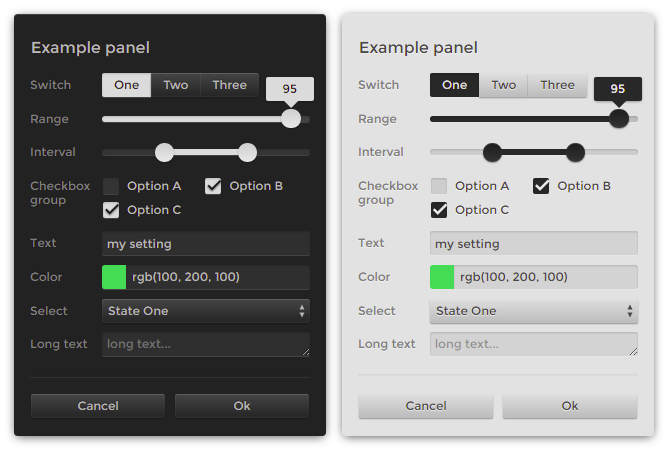
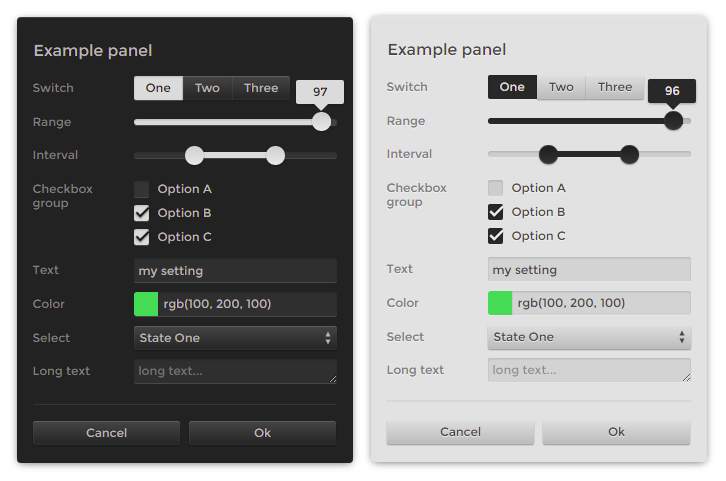
Upd visuals

diff --git a/index.js b/index.js
@@ -10551,7 +10551,7 @@ meta.setAttribute('content', 'width=device-width, initial-scale=1, shrink-to-fit
 document.head.appendChild(meta)
 
 
-insertCSS("\n\tbody {\n\t\tmargin: 0;\n\t\tposition: relative;\n\t\tmin-height: 100vh;\n\t\t// background: url('./images/land.jpg');\n\t\tbackground-position: center top;\n\t\tbackground-size: cover;\n\t\tbackground-attachment: fixed;\n\t}\n\t.settings-panel-preview {\n\t\tmargin: 2em auto;\n\t}\n\t.sidebar {\n\t\tdisplay: none;\n\t\tposition: fixed;\n\t\ttop: 0;\n\t\tright: 0;\n\t\tbottom: 0;\n\t\tfont-size: 12px;\n\t\twidth: 240px;\n\t\tbox-shadow: -1px 0 3px rgba(0,0,0,.05);\n\t}\n\t@media (min-width: 640px) {\n\t\t.frame {\n\t\t\tmin-height: 100vh;\n\t\t\tposition: relative;\n\t\t\twidth: calc(100% - 240px);\n\t\t}\n\t\t.sidebar {\n\t\t\tdisplay: block;\n\t\t}\n\t}\n");
+insertCSS("\n\tbody {\n\t\tmargin: 0;\n\t\tposition: relative;\n\t\tmin-height: 100vh;\n\t\tbackground: url('./images/land.jpg');\n\t\tbackground-position: center top;\n\t\tbackground-size: cover;\n\t\tbackground-attachment: fixed;\n\t}\n\t.settings-panel-preview {\n\t\tmargin: 2em auto;\n\t}\n\t.sidebar {\n\t\tdisplay: none;\n\t\tposition: fixed;\n\t\ttop: 0;\n\t\tright: 0;\n\t\tbottom: 0;\n\t\tfont-size: 12px;\n\t\twidth: 240px;\n\t\tbox-shadow: -1px 0 3px rgba(0,0,0,.05);\n\t}\n\t@media (min-width: 640px) {\n\t\t.frame {\n\t\t\tmin-height: 100vh;\n\t\t\tposition: relative;\n\t\t\twidth: calc(100% - 240px);\n\t\t}\n\t\t.sidebar {\n\t\t\tdisplay: block;\n\t\t}\n\t}\n");
 
 
 var themes = {
@@ -11221,7 +11221,7 @@ function typer (opts) {
 		if ( d === void 0 ) d = .05;
 		if ( t === void 0 ) t = tone;
 
-		return ("\n\t\tbackground: " + (t(v)) + ";\n\t\t/*background-image: linear-gradient(to bottom, " + (darken(v, d, t)) + ", " + (lighten(v, d, t)) + ");*/\n\t\tbox-shadow: inset 0 1px 2px " + (alpha(shadow, .15)) + ", 0 1px " + (alpha(light, .17)) + ";\n\t\tcolor: " + (t(1 - active)) + ";\n\t\ttext-shadow: none;\n\t");
+		return ("\n\t\tbackground: " + (t(v)) + ";\n\t\t/*background-image: linear-gradient(to bottom, " + (darken(v, d, t)) + ", " + (lighten(v, d, t)) + ");*/\n\t\tbox-shadow: inset 0 1px 2px " + (alpha(shadow, .15)) + ", 0 1px " + (alpha(light, .2)) + ";\n\t\tcolor: " + (t(1 - active)) + ";\n\t\ttext-shadow: none;\n\t");
 	};
 	var text = function (v, bg) { return color(tone(v)).getLuminance() > color(tone(bg)).getLuminance() ? ("\n\t\tcolor: " + (tone(v)) + ";\n\t\tbackground: " + (tone(bg)) + ";\n\t\ttext-shadow: 0 -1px " + (color.mix(tone(bg), shadow, 50)) + ";\n\t") : ("\n\t\tcolor: " + (tone(v)) + ";\n\t\tbackground: " + (tone(bg)) + ";\n\t\ttext-shadow: 0 1px " + (color.mix(tone(bg), light, 50)) + ";\n\t"); };
 
@@ -11232,6 +11232,6 @@ function typer (opts) {
 		labelWidth: labelWidth,
 		palette: [tone(active), tone(bg)],
 		padding: padding
-	}) + "\n\t\t:host {\n\t\t\t" + (text(.25, bg)) + ";\n\t\t\tbox-shadow: inset 0 1px " + (alpha(light, .15)) + ", 0 2px 14px -2px " + (alpha(shadow, .75)) + ";\n\t\t\tborder-radius: " + (radius*2) + "px;\n\t\t}\n\n\t\t.settings-panel-title {\n\t\t\tfont-weight: 400;\n\t\t\t" + (text(.25, bg)) + ";\n\t\t}\n\n\t\t.settings-panel-label {\n\t\t\t" + (text(.5, bg)) + ";\n\t\t}\n\n\t\t.settings-panel-field:hover .settings-panel-label {\n\t\t\tcolor: " + (tone(active)) + ";\n\t\t}\n\n\n\n\t/** Values */\n\t.settings-panel-value {\n\t}\n\t.settings-panel-value:first-child {\n\t}\n\t.settings-panel-value:hover,\n\t.settings-panel-value:focus {\n\t}\n\n\n\n\t/** Sliders */\n\t.settings-panel-range {\n\t\t-webkit-appearance: none;\n\t\t-moz-appearance: none;\n\t\tappearance: none;\n\t\tbackground: none;\n\t\tborder: 0;\n\t}\n\t.settings-panel-field--range:hover .settings-panel-range,\n\t.settings-panel-range:focus {\n\t\toutline: none;\n\t}\n\t.settings-panel-range::-webkit-slider-runnable-track {\n\t\theight: .5em;\n\t\tborder-radius: .5em;\n\t\t" + (push(active, .05)) + "\n\t}\n\t.settings-panel-range::-moz-range-track {\n\t\theight: .5em;\n\t\tborder-radius: .5em;\n\t\t" + (push(active, .05)) + "\n\t}\n\t.settings-panel-range::-ms-track {\n\t\t" + (push(active, .05)) + "\n\t\toutline: none;\n\t\tcolor: transparent;\n\t\tborder: none;\n\t\theight: .5em;\n\t\tborder-radius: .5em;\n\t}\n\t.settings-panel-range::-ms-fill-lower {\n\t\tborder-radius: .5em;\n\t\t" + (push(active, .05)) + "\n\t}\n\t.settings-panel-range::-ms-fill-upper {\n\t\tborder-radius: .5em;\n\t\t" + (push(bg*.9, .05)) + "\n\t}\n\n\t@supports (--css: variables) {\n\t\t.settings-panel-range {\n\t\t\twidth: 100%;\n\t\t\t--active: " + (tone(active)) + ";\n\t\t\t--bg: " + (tone(bg*.9)) + ";\n\t\t\t--track-background: linear-gradient(to right, var(--active) 0, var(--active) var(--value), var(--bg) 0) no-repeat;\n\t\t}\n\t\t.settings-panel-range::-webkit-slider-runnable-track {\n\t\t\tbackground: var(--track-background);\n\t\t}\n\t\t.settings-panel-range::-moz-range-track {\n\t\t\tbackground: var(--track-background);\n\t\t}\n\t\t.settings-panel-field--range .settings-panel-input {\n\t\t\tmargin-right: " + h + "em;\n\t\t}\n\t\t.settings-panel-field--range:hover .settings-panel-range,\n\t\t.settings-panel-range:focus {\n\t\t\t--bg: " + (tone(bg*.9 -.07)) + ";\n\t\t}\n\t\t.settings-panel-range-value {\n\t\t\tdisplay: none;\n\t\t\tposition: absolute;\n\t\t\ttop: -" + (h*1.25) + "em;\n\t\t\ttext-align: center;\n\t\t\tpadding: 0;\n\t\t\tcolor: " + (tone(bg)) + ";\n\t\t\tbackground: " + (tone(active)) + ";\n\t\t\tbox-shadow: 0 1px 5px -1px " + (alpha(shadow, .5)) + ";\n\t\t\tborder-radius: " + radius + "px;\n\t\t\tz-index: 3;\n\t\t\tmargin-left: " + (-h*.65) + "em;\n\t\t\twidth: " + (h*2) + "em;\n\t\t\ttext-shadow: none;\n\t\t\tleft: calc(var(--value) - var(--coef) * " + (h*.8) + "em);\n\t\t}\n\t\t.settings-panel-field--range .settings-panel-value-tip {\n\t\t\tposition: absolute;\n\t\t\theight: 0;\n\t\t\ttop: -" + (h*.25) + "em;\n\t\t\tleft: calc(var(--value) - var(--coef) * " + (h*.8) + "em);\n\t\t\tmargin-left: " + (h*.1) + "em;\n\t\t\tdisplay: none;\n\t\t\tz-index: 3;\n\t\t\tborder-top: " + (h*.3) + "em solid " + (tone(active)) + ";\n\t\t\tborder-left: " + (h*.3) + "em solid transparent;\n\t\t\tborder-right: " + (h*.3) + "em solid transparent;\n\t\t\tborder-bottom: none;\n\t\t}\n\t\t.settings-panel-input:before {\n\t\t\tborder-top: " + (h*.3) + "em solid " + (alpha(shadow, .25)) + ";\n\t\t}\n\t\t.settings-panel-field--range:hover .settings-panel-value-tip,\n\t\t.settings-panel-range:focus ~ .settings-panel-value-tip {\n\t\t\tdisplay: block;\n\t\t}\n\t\t.settings-panel-field--range:hover .settings-panel-value,\n\t\t.settings-panel-range:focus ~ .settings-panel-value {\n\t\t\tdisplay: block;\n\t\t}\n\t}\n\n\t.settings-panel-range::-webkit-slider-thumb {\n\t\t" + (pop(active, -.05)) + ";\n\t\theight: " + (h*.8) + "em;\n\t\twidth: " + (h*.8) + "em;\n\t\tborder-radius: " + (h*.8) + "em;\n\t\tmargin-top: -" + (h*.4) + "em;\n\t\tborder: 0;\n\t\tposition: relative;\n\t\ttop: .25em;\n\t\t-webkit-appearance: none;\n\t\tappearance: none;\n\t\tz-index: 3;\n\t}\n\t.settings-panel-range:focus::-webkit-slider-thumb,\n\t.settings-panel-range:hover::-webkit-slider-thumb,\n\t.settings-panel-field--range:hover .settings-panel-range::-webkit-slider-thumb {\n\t}\n\t.settings-panel-range::-webkit-slider-thumb:active {\n\t}\n\n\t.settings-panel-range::-moz-range-thumb {\n\t\t" + (pop(active, -.05)) + ";\n\t\theight: " + (h*.8) + "em;\n\t\twidth: " + (h*.8) + "em;\n\t\tborder-radius: " + (h*.8) + "em;\n\t\tmargin-top: -" + (h*.4) + "em;\n\t\tborder: 0;\n\t\tposition: relative;\n\t\ttop: .25em;\n\t\t-moz-appearance: none;\n\t\tappearance: none;\n\t\tz-index: 3;\n\t}\n\t.settings-panel-range:focus::-moz-range-thumb,\n\t.settings-panel-range::-moz-range-thumb:hover,\n\t.settings-panel-field--range:hover .settings-panel-range::-moz-range-thumb {\n\t}\n\t.settings-panel-range::-moz-range-thumb:active {\n\t}\n\n\t.settings-panel-range::-ms-thumb {\n\t\t" + (pop(active, -.05)) + ";\n\t\theight: " + (h*.8) + "em;\n\t\twidth: " + (h*.8) + "em;\n\t\tborder-radius: " + (h*.8) + "em;\n\t\tborder: 0;\n\t\tposition: relative;\n\t\ttop: .25em;\n\t\t-ms-appearance: none;\n\t\tappearance: none;\n\t\tz-index: 3;\n\t}\n\t.settings-panel-range:focus::-ms-thumb,\n\t.settings-panel-range:hover::-ms-thumb,\n\t.settings-panel-field--range:hover .settings-panel-range::-ms-thumb {\n\t}\n\t.settings-panel-range::-ms-thumb:active {\n\t}\n\n\n\t/** Interval */\n\t.settings-panel-interval {\n\t\tbackground: none;\n\t}\n\t.settings-panel-interval:after {\n\t\tcontent: '';\n\t\tposition: absolute;\n\t\twidth: 100%;\n\t\tleft: 0;\n\t\tbottom: 0;\n\t\ttop: 0;\n\t\theight: .5em;\n\t\tborder-radius: .5em;\n\t\tmargin-top: auto;\n\t\tmargin-bottom: auto;\n\t\t" + (push(bg*.9, .05)) + "\n\t\tbackground: " + (tone(bg*.9)) + ";\n\t}\n\t.settings-panel-field--interval:hover .settings-panel-interval:after,\n\t.settings-panel-interval-dragging .settings-panel-interval:after {\n\t\tbackground: " + (tone(bg*.9 -.07)) + ";\n\t}\n\t.settings-panel-interval-handle {\n\t\tposition: absolute;\n\t\tz-index: 1;\n\t\ttop: 0;\n\t\theight: .5em;\n\t\tbottom: 0;\n\t\tmargin-top: auto;\n\t\tmargin-bottom: auto;\n\t\tbackground: " + (tone(active)) + ";\n\t}\n\t.settings-panel-interval-handle:after,\n\t.settings-panel-interval-handle:before {\n\t\tcontent: '';\n\t\tposition: absolute;\n\t\tright: -" + (h*.4) + "em;\n\t\ttop: 0;\n\t\tbottom: 0;\n\t\tmargin: auto;\n\t\theight: " + (h*.8) + "em;\n\t\twidth: " + (h*.8) + "em;\n\t\tborder-radius: " + (h*.8) + "em;\n\t\t" + (pop(active, -.05)) + ";\n\t}\n\t.settings-panel-interval-handle:before {\n\t\tleft: -" + (h*.4) + "em;\n\t\tright: auto;\n\t}\n\n\t.settings-panel-field--interval:hover .settings-panel-interval-handle:after,\n\t.settings-panel-field--interval:hover .settings-panel-interval-handle:before,\n\t.settings-panel-interval-dragging .settings-panel-interval-handle:after,\n\t.settings-panel-interval-dragging .settings-panel-interval-handle:before {\n\t\t" + (pop(active, -.05)) + ";\n\t}\n\n\t@supports (--css: variables) {\n\t\t.settings-panel-interval {\n\t\t\twidth: 100%;\n\t\t}\n\n\t\t.settings-panel-interval-value {\n\t\t\tposition: absolute;\n\t\t\ttop: -" + (h*1.25) + "em;\n\t\t\ttext-align: center;\n\t\t\tpadding: 0;\n\t\t\tdisplay: none;\n\t\t\tcolor: " + (tone(bg)) + ";\n\t\t\tbackground: " + (tone(active)) + ";\n\t\t\tbox-shadow: 0 1px 5px -1px " + (alpha(shadow, .5)) + ";\n\t\t\tborder-radius: " + radius + "px;\n\t\t\tz-index: 3;\n\t\t\tmargin-left: " + (-h) + "em;\n\t\t\twidth: " + (h*2) + "em;\n\t\t\ttext-shadow: none;\n\t\t\tleft: var(--value);\n\t\t}\n\n\t\t.settings-panel-field--interval .settings-panel-value-tip {\n\t\t\tposition: absolute;\n\t\t\theight: 0;\n\t\t\tdisplay: none;\n\t\t\ttop: -" + (h*.25) + "em;\n\t\t\tleft: var(--low);\n\t\t\tmargin-left: " + (-h*.3) + "em;\n\t\t\tz-index: 3;\n\t\t\tborder-top: " + (h*.3) + "em solid " + (tone(active)) + ";\n\t\t\tborder-left: " + (h*.3) + "em solid transparent;\n\t\t\tborder-right: " + (h*.3) + "em solid transparent;\n\t\t\tborder-bottom: none;\n\t\t}\n\t\t.settings-panel-interval-value--right + .settings-panel-value-tip {\n\t\t\tleft: var(--high);\n\t\t}\n\n\t\t.settings-panel-input:before {\n\t\t\tborder-top: " + (h*.3) + "em solid " + (alpha(shadow, .25)) + ";\n\t\t}\n\t\t.settings-panel-field--interval:hover .settings-panel-interval-value,\n\t\t.settings-panel-interval-dragging .settings-panel-interval-value {\n\t\t\tdisplay: block;\n\t\t}\n\t\t@media (min-width: 640px) {\n\t\t\t.settings-panel-field--interval:hover .settings-panel-value-tip,\n\t\t\t.settings-panel-interval-dragging .settings-panel-value-tip {\n\t\t\t\tdisplay: block;\n\t\t\t}\n\t\t}\n\t}\n\n\n\t\t/** Switch style */\n\t\t.settings-panel-switch {\n\t\t}\n\t\t.settings-panel-switch-input {\n\t\t\tdisplay: none;\n\t\t}\n\t\t.settings-panel-switch-label {\n\t\t\tposition: relative;\n\t\t\tdisplay: inline-block;\n\t\t\tpadding: 0 " + (h/2) + "em;\n\t\t\tmargin: 0;\n\t\t\tz-index: 2;\n\t\t\ttext-align: center;\n\t\t\t" + (pop(bg * .9, .07)) + ";\n\t\t\tcolor: " + (tone(.25)) + ";\n\t\t}\n\t\t.settings-panel-switch-input:checked + .settings-panel-switch-label {\n\t\t\t" + (push(active, .05)) + ";\n\t\t}\n\n\t\t.settings-panel-switch-input:first-child + .settings-panel-switch-label {\n\t\t\tborder-top-left-radius: 2px;\n\t\t\tborder-bottom-left-radius: 2px;\n\t\t}\n\t\t.settings-panel-switch-label:last-child {\n\t\t\tborder-top-right-radius: 2px;\n\t\t\tborder-bottom-right-radius: 2px;\n\t\t}\n\n\t\t.settings-panel-switch-label:hover {\n\t\t\t" + (pop(bg * .9 + (inversed ? -.07 : .07), .07)) + ";\n\t\t}\n\t\t.settings-panel-switch-label:active {\n\t\t\t" + (pop(bg * .9 + (inversed ? .07 : -.07), .07)) + ";\n\t\t}\n\n\n\t/** Select */\n\t.settings-panel-select {\n\t\tborder-radius: " + radius + "px;\n\t\tpadding-left: " + (h/4) + "em;\n\t\toutline: none;\n\t\tborder: none;\n\t\t-webkit-appearance: none;\n\t\t-moz-appearance: none;\n\t\t-o-appearance:none;\n\t\tappearance:none;\n\t\t" + (pop(bg * .9, .07)) + ";\n\t\tcolor: " + (tone(.25)) + ";\n\t}\n\t.settings-panel-select:hover,\n\t.settings-panel-select:active,\n\t.settings-panel-select:focus {\n\t\t" + (pop(bg * .9 + (inversed ? -.07 : .07), .07)) + ";\n\t}\n\t.settings-panel-select::-ms-expand {\n\t\tdisplay: none;\n\t}\n\t.settings-panel-select-triangle {\n\t\tcolor: inherit;\n\t\tdisplay: block;\n\t\ttransform: scale(.8);\n\t}\n\n\n\t/** Button */\n\t.settings-panel-button {\n\t\ttext-align: center;\n\t\tborder: none;\n\t\tborder-radius: " + radius + "px;\n\t\t" + (pop(bg * .9, .07)) + ";\n\t\tcolor: " + (tone(.25)) + ";\n\t}\n\t.settings-panel-button:focus {\n\t\toutline: none;\n\t}\n\t.settings-panel-button:hover {\n\t\t" + (pop(bg * .9 + (inversed ? -.07 : .07), .07)) + ";\n\t\tcolor: " + (tone(active)) + ";\n\t}\n\t.settings-panel-button:active {\n\t\t" + (push(active, .05)) + ";\n\t}\n\n\n\t/** Text */\n\t.settings-panel-text,\n\t.settings-panel-textarea {\n\t\t-webkit-appearance: none;\n\t\t-moz-appearance: none;\n\t\t-o-appearance:none;\n\t\tborder: none;\n\t\theight: " + h + "em;\n\t\tpadding: 0;\n\t\twidth: 100%;\n\t\tborder-radius: " + radius + "px;\n\t\tpadding-left: .4em;\n\t\t" + (push(bg*.93)) + ";\n\t\tcolor: " + (tone(.25)) + ";\n\t\ttext-shadow: none;\n\t}\n\t.settings-panel-textarea {\n\t\tpadding-top: .35em;\n\t}\n\n\t.settings-panel-text:hover,\n\t.settings-panel-textarea:hover,\n\t.settings-panel-text:focus,\n\t.settings-panel-textarea:focus {\n\t\t" + (push(bg * .93 - .04)) + ";\n\t\tcolor: " + (tone(active)) + ";\n\t\toutline: none;\n\t}\n\n\t/** Color */\n\t.settings-panel-color {\n\t\tposition: relative;\n\t\twidth: " + h + "em;\n\t\tborder-top-left-radius: 3px;\n\t\tborder-bottom-left-radius: 3px;\n\t\tdisplay: inline-block;\n\t\tvertical-align: baseline;\n\t\tbox-shadow: 0 1px " + (alpha(light, .2)) + ";\n\t}\n\t.settings-panel-color-value {\n\t\t-webkit-appearance: none;\n\t\t-moz-appearance: none;\n\t\t-o-appearance:none;\n\t\tborder: none;\n\t\tpadding-left: " + (h/4) + "em;\n\t\twidth: calc(100% - " + h + "em);\n\t\tfont-family: inherit;\n\t\tborder-top-left-radius: 0;\n\t\tborder-bottom-left-radius: 0;\n\t\tborder-top-right-radius: 3px;\n\t\tborder-bottom-right-radius: 3px;\n\t\t" + (push(bg*.93)) + ";\n\t\tcolor: " + (tone(.25)) + ";\n\t\ttext-shadow: none;\n\t}\n\t.settings-panel-color-value:hover,\n\t.settings-panel-color-value:focus {\n\t\toutline: none;\n\t\t" + (push(bg * .93 - .04)) + ";\n\t\tcolor: " + (tone(active)) + ";\n\t}\n\n\n\t/** Checkbox */\n\t.settings-panel-checkbox {\n\t\tdisplay: none;\n\t}\n\t.settings-panel-checkbox-label {\n\t\tdisplay: inline-block;\n\t\t" + (text(.25, bg)) + ";\n\t\tposition: relative;\n\t\tmargin-right: " + h + "em;\n\t}\n\t.settings-panel-checkbox-label:before {\n\t\tfont-family: \"Material Icons\";\n\t\tcontent: '';\n\t\tfont-weight: bolder;\n\t\tfont-size: " + (h*.75) + "em;\n\t\tdisplay: block;\n\t\tfloat: left;\n\t\twidth: 2em;\n\t\tmargin-right: -2em;\n\t\tmargin-top: -" + (h*.1) + "em;\n\t\topacity: 0;\n\t\tz-index: 1;\n\t\tposition: relative;\n\t\tcolor: " + (tone(1)) + ";\n\t\ttext-shadow: 0 1px 2px " + (alpha(shadow, .5)) + ";\n\t}\n\t.settings-panel-checkbox-label:after {\n\t\tcontent: '';\n\t\tdisplay: block;\n\t\tfloat: left;\n\t\tmargin-top: -" + (h*.05) + "em;\n\t\twidth: " + (h*.666) + "em;\n\t\theight: " + (h*.666) + "em;\n\t\tborder-radius: " + radius + "px;\n\t\tposition: relative;\n\t\tmargin-right: " + (h/3) + "em;\n\t\tline-height: " + (h/2) + "em;\n\t\ttext-align: center;\n\t\tz-index: 0;\n\t\t" + (push(bg * .9)) + ";\n\t}\n\t.settings-panel-checkbox-label:hover {\n\t\tcolor: " + (tone(active)) + ";\n\t}\n\t.settings-panel-checkbox-label:hover:after {\n\t\t" + (push(bg * .9 -.07, .07)) + ";\n\t}\n\t.settings-panel-checkbox:checked + .settings-panel-checkbox-label {\n\t}\n\t.settings-panel-checkbox:checked + .settings-panel-checkbox-label:before {\n\t\topacity: 1;\n\t}\n\t.settings-panel-checkbox:checked + .settings-panel-checkbox-label:after {\n\t\t" + (push(active, .1)) + ";\n\t}\n\n\n\t/** Decorations */\n\t::-webkit-input-placeholder {\n\t\tcolor: " + (alpha(tone(.25), .5)) + ";\n\t}\n\t::-moz-placeholder {\n\t\tcolor: " + (alpha(tone(.25), .5)) + ";\n\t}\n\t:-ms-input-placeholder {\n\t\tcolor: " + (alpha(tone(.25), .5)) + ";\n\t}\n\t:-moz-placeholder {\n\t\tcolor: " + (alpha(tone(.25), .5)) + ";\n\t}\n\t::-moz-selection {\n\t\tbackground: " + (tone(active)) + ";\n\t\tcolor: " + (tone(bg)) + ";\n\t}\n\t::selection {\n\t\tbackground: " + (tone(active)) + ";\n\t\tcolor: " + (tone(bg)) + ";\n\t}\n\t:host hr {\n\t\tborder: none;\n\t\theight: 3px;\n\t\tborder-radius: " + radius + "px;\n\t\tmargin: " + (h/3) + "em 0;\n\t\t" + (push(bg, .05)) + ";\n\t}\n\t";
+	}) + "\n\t\t:host {\n\t\t\t" + (text(.25, bg)) + ";\n\t\t\tbox-shadow: inset 0 1px " + (alpha(light, .15)) + ", 0 1.5px 11px -2px " + (alpha(shadow, .666)) + ";\n\t\t\tborder-radius: " + (radius*2) + "px;\n\t\t}\n\n\t\t.settings-panel-title {\n\t\t\tfont-weight: 400;\n\t\t\t" + (text(.25, bg)) + ";\n\t\t}\n\n\t\t.settings-panel-label {\n\t\t\t" + (text(.5, bg)) + ";\n\t\t}\n\n\t\t.settings-panel-field:hover .settings-panel-label {\n\t\t\tcolor: " + (tone(active)) + ";\n\t\t}\n\n\n\n\t/** Values */\n\t.settings-panel-value {\n\t}\n\t.settings-panel-value:first-child {\n\t}\n\t.settings-panel-value:hover,\n\t.settings-panel-value:focus {\n\t}\n\n\n\n\t/** Sliders */\n\t.settings-panel-range {\n\t\t-webkit-appearance: none;\n\t\t-moz-appearance: none;\n\t\tappearance: none;\n\t\tbackground: none;\n\t\tborder: 0;\n\t}\n\t.settings-panel-field--range:hover .settings-panel-range,\n\t.settings-panel-range:focus {\n\t\toutline: none;\n\t}\n\t.settings-panel-range::-webkit-slider-runnable-track {\n\t\theight: .5em;\n\t\tborder-radius: .5em;\n\t\t" + (push(active, .05)) + "\n\t}\n\t.settings-panel-range::-moz-range-track {\n\t\theight: .5em;\n\t\tborder-radius: .5em;\n\t\t" + (push(active, .05)) + "\n\t}\n\t.settings-panel-range::-ms-track {\n\t\t" + (push(active, .05)) + "\n\t\toutline: none;\n\t\tcolor: transparent;\n\t\tborder: none;\n\t\theight: .5em;\n\t\tborder-radius: .5em;\n\t}\n\t.settings-panel-range::-ms-fill-lower {\n\t\tborder-radius: .5em;\n\t\t" + (push(active, .05)) + "\n\t}\n\t.settings-panel-range::-ms-fill-upper {\n\t\tborder-radius: .5em;\n\t\t" + (push(bg*.9, .05)) + "\n\t}\n\n\t@supports (--css: variables) {\n\t\t.settings-panel-range {\n\t\t\twidth: 100%;\n\t\t\t--active: " + (tone(active)) + ";\n\t\t\t--bg: " + (tone(bg*.9)) + ";\n\t\t\t--track-background: linear-gradient(to right, var(--active) 0, var(--active) var(--value), var(--bg) 0) no-repeat;\n\t\t}\n\t\t.settings-panel-range::-webkit-slider-runnable-track {\n\t\t\tbackground: var(--track-background);\n\t\t}\n\t\t.settings-panel-range::-moz-range-track {\n\t\t\tbackground: var(--track-background);\n\t\t}\n\t\t.settings-panel-field--range .settings-panel-input {\n\t\t\tmargin-right: " + h + "em;\n\t\t}\n\t\t.settings-panel-field--range:hover .settings-panel-range,\n\t\t.settings-panel-range:focus {\n\t\t\t--bg: " + (tone(bg*.9 -.07)) + ";\n\t\t}\n\t\t.settings-panel-range-value {\n\t\t\tdisplay: none;\n\t\t\tposition: absolute;\n\t\t\ttop: -" + (h*1.25) + "em;\n\t\t\ttext-align: center;\n\t\t\tpadding: 0;\n\t\t\tcolor: " + (tone(bg)) + ";\n\t\t\tbackground: " + (tone(active)) + ";\n\t\t\tbox-shadow: 0 1px 5px -1px " + (alpha(shadow, .5)) + ";\n\t\t\tborder-radius: " + radius + "px;\n\t\t\tz-index: 3;\n\t\t\tmargin-left: " + (-h*.65) + "em;\n\t\t\twidth: " + (h*2) + "em;\n\t\t\ttext-shadow: none;\n\t\t\tleft: calc(var(--value) - var(--coef) * " + (h*.8) + "em);\n\t\t}\n\t\t.settings-panel-field--range .settings-panel-value-tip {\n\t\t\tposition: absolute;\n\t\t\theight: 0;\n\t\t\ttop: -" + (h*.25) + "em;\n\t\t\tleft: calc(var(--value) - var(--coef) * " + (h*.8) + "em);\n\t\t\tmargin-left: " + (h*.1) + "em;\n\t\t\tdisplay: none;\n\t\t\tz-index: 3;\n\t\t\tborder-top: " + (h*.3) + "em solid " + (tone(active)) + ";\n\t\t\tborder-left: " + (h*.3) + "em solid transparent;\n\t\t\tborder-right: " + (h*.3) + "em solid transparent;\n\t\t\tborder-bottom: none;\n\t\t}\n\t\t.settings-panel-input:before {\n\t\t\tborder-top: " + (h*.3) + "em solid " + (alpha(shadow, .25)) + ";\n\t\t}\n\t\t.settings-panel-field--range:hover .settings-panel-value-tip,\n\t\t.settings-panel-range:focus ~ .settings-panel-value-tip {\n\t\t\tdisplay: block;\n\t\t}\n\t\t.settings-panel-field--range:hover .settings-panel-value,\n\t\t.settings-panel-range:focus ~ .settings-panel-value {\n\t\t\tdisplay: block;\n\t\t}\n\t}\n\n\t.settings-panel-range::-webkit-slider-thumb {\n\t\t" + (pop(active, -.05)) + ";\n\t\theight: " + (h*.8) + "em;\n\t\twidth: " + (h*.8) + "em;\n\t\tborder-radius: " + (h*.8) + "em;\n\t\tmargin-top: -" + (h*.4) + "em;\n\t\tborder: 0;\n\t\tposition: relative;\n\t\ttop: .25em;\n\t\t-webkit-appearance: none;\n\t\tappearance: none;\n\t\tz-index: 3;\n\t}\n\t.settings-panel-range:focus::-webkit-slider-thumb,\n\t.settings-panel-range:hover::-webkit-slider-thumb,\n\t.settings-panel-field--range:hover .settings-panel-range::-webkit-slider-thumb {\n\t}\n\t.settings-panel-range::-webkit-slider-thumb:active {\n\t}\n\n\t.settings-panel-range::-moz-range-thumb {\n\t\t" + (pop(active, -.05)) + ";\n\t\theight: " + (h*.8) + "em;\n\t\twidth: " + (h*.8) + "em;\n\t\tborder-radius: " + (h*.8) + "em;\n\t\tmargin-top: -" + (h*.4) + "em;\n\t\tborder: 0;\n\t\tposition: relative;\n\t\ttop: .25em;\n\t\t-moz-appearance: none;\n\t\tappearance: none;\n\t\tz-index: 3;\n\t}\n\t.settings-panel-range:focus::-moz-range-thumb,\n\t.settings-panel-range::-moz-range-thumb:hover,\n\t.settings-panel-field--range:hover .settings-panel-range::-moz-range-thumb {\n\t}\n\t.settings-panel-range::-moz-range-thumb:active {\n\t}\n\n\t.settings-panel-range::-ms-thumb {\n\t\t" + (pop(active, -.05)) + ";\n\t\theight: " + (h*.8) + "em;\n\t\twidth: " + (h*.8) + "em;\n\t\tborder-radius: " + (h*.8) + "em;\n\t\tborder: 0;\n\t\tposition: relative;\n\t\ttop: .25em;\n\t\t-ms-appearance: none;\n\t\tappearance: none;\n\t\tz-index: 3;\n\t}\n\t.settings-panel-range:focus::-ms-thumb,\n\t.settings-panel-range:hover::-ms-thumb,\n\t.settings-panel-field--range:hover .settings-panel-range::-ms-thumb {\n\t}\n\t.settings-panel-range::-ms-thumb:active {\n\t}\n\n\n\t/** Interval */\n\t.settings-panel-interval {\n\t\tbackground: none;\n\t}\n\t.settings-panel-interval:after {\n\t\tcontent: '';\n\t\tposition: absolute;\n\t\twidth: 100%;\n\t\tleft: 0;\n\t\tbottom: 0;\n\t\ttop: 0;\n\t\theight: .5em;\n\t\tborder-radius: .5em;\n\t\tmargin-top: auto;\n\t\tmargin-bottom: auto;\n\t\t" + (push(bg*.9, .05)) + "\n\t\tbackground: " + (tone(bg*.9)) + ";\n\t}\n\t.settings-panel-field--interval:hover .settings-panel-interval:after,\n\t.settings-panel-interval-dragging .settings-panel-interval:after {\n\t\tbackground: " + (tone(bg*.9 -.07)) + ";\n\t}\n\t.settings-panel-interval-handle {\n\t\tposition: absolute;\n\t\tz-index: 1;\n\t\ttop: 0;\n\t\theight: .5em;\n\t\tbottom: 0;\n\t\tmargin-top: auto;\n\t\tmargin-bottom: auto;\n\t\tbackground: " + (tone(active)) + ";\n\t}\n\t.settings-panel-interval-handle:after,\n\t.settings-panel-interval-handle:before {\n\t\tcontent: '';\n\t\tposition: absolute;\n\t\tright: -" + (h*.4) + "em;\n\t\ttop: 0;\n\t\tbottom: 0;\n\t\tmargin: auto;\n\t\theight: " + (h*.8) + "em;\n\t\twidth: " + (h*.8) + "em;\n\t\tborder-radius: " + (h*.8) + "em;\n\t\t" + (pop(active, -.05)) + ";\n\t}\n\t.settings-panel-interval-handle:before {\n\t\tleft: -" + (h*.4) + "em;\n\t\tright: auto;\n\t}\n\n\t.settings-panel-field--interval:hover .settings-panel-interval-handle:after,\n\t.settings-panel-field--interval:hover .settings-panel-interval-handle:before,\n\t.settings-panel-interval-dragging .settings-panel-interval-handle:after,\n\t.settings-panel-interval-dragging .settings-panel-interval-handle:before {\n\t\t" + (pop(active, -.05)) + ";\n\t}\n\n\t@supports (--css: variables) {\n\t\t.settings-panel-interval {\n\t\t\twidth: 100%;\n\t\t}\n\n\t\t.settings-panel-interval-value {\n\t\t\tposition: absolute;\n\t\t\ttop: -" + (h*1.25) + "em;\n\t\t\ttext-align: center;\n\t\t\tpadding: 0;\n\t\t\tdisplay: none;\n\t\t\tcolor: " + (tone(bg)) + ";\n\t\t\tbackground: " + (tone(active)) + ";\n\t\t\tbox-shadow: 0 1px 5px -1px " + (alpha(shadow, .5)) + ";\n\t\t\tborder-radius: " + radius + "px;\n\t\t\tz-index: 3;\n\t\t\tmargin-left: " + (-h) + "em;\n\t\t\twidth: " + (h*2) + "em;\n\t\t\ttext-shadow: none;\n\t\t\tleft: var(--value);\n\t\t}\n\n\t\t.settings-panel-field--interval .settings-panel-value-tip {\n\t\t\tposition: absolute;\n\t\t\theight: 0;\n\t\t\tdisplay: none;\n\t\t\ttop: -" + (h*.25) + "em;\n\t\t\tleft: var(--low);\n\t\t\tmargin-left: " + (-h*.3) + "em;\n\t\t\tz-index: 3;\n\t\t\tborder-top: " + (h*.3) + "em solid " + (tone(active)) + ";\n\t\t\tborder-left: " + (h*.3) + "em solid transparent;\n\t\t\tborder-right: " + (h*.3) + "em solid transparent;\n\t\t\tborder-bottom: none;\n\t\t}\n\t\t.settings-panel-interval-value--right + .settings-panel-value-tip {\n\t\t\tleft: var(--high);\n\t\t}\n\n\t\t.settings-panel-input:before {\n\t\t\tborder-top: " + (h*.3) + "em solid " + (alpha(shadow, .25)) + ";\n\t\t}\n\t\t.settings-panel-field--interval:hover .settings-panel-interval-value,\n\t\t.settings-panel-interval-dragging .settings-panel-interval-value {\n\t\t\tdisplay: block;\n\t\t}\n\t\t@media (min-width: 640px) {\n\t\t\t.settings-panel-field--interval:hover .settings-panel-value-tip,\n\t\t\t.settings-panel-interval-dragging .settings-panel-value-tip {\n\t\t\t\tdisplay: block;\n\t\t\t}\n\t\t}\n\t}\n\n\n\t\t/** Switch style */\n\t\t.settings-panel-switch {\n\t\t}\n\t\t.settings-panel-switch-input {\n\t\t\tdisplay: none;\n\t\t}\n\t\t.settings-panel-switch-label {\n\t\t\tposition: relative;\n\t\t\tdisplay: inline-block;\n\t\t\tpadding: 0 " + (h/2) + "em;\n\t\t\tmargin: 0;\n\t\t\tz-index: 2;\n\t\t\ttext-align: center;\n\t\t\t" + (pop(bg * .9, .07)) + ";\n\t\t\tcolor: " + (tone(.25)) + ";\n\t\t}\n\t\t.settings-panel-switch-input:checked + .settings-panel-switch-label {\n\t\t\t" + (push(active, .05)) + ";\n\t\t}\n\n\t\t.settings-panel-switch-input:first-child + .settings-panel-switch-label {\n\t\t\tborder-top-left-radius: 2px;\n\t\t\tborder-bottom-left-radius: 2px;\n\t\t}\n\t\t.settings-panel-switch-label:last-child {\n\t\t\tborder-top-right-radius: 2px;\n\t\t\tborder-bottom-right-radius: 2px;\n\t\t}\n\n\t\t.settings-panel-switch-label:hover {\n\t\t\t" + (pop(bg * .9 + (inversed ? -.07 : .07), .07)) + ";\n\t\t}\n\t\t.settings-panel-switch-label:active {\n\t\t\t" + (pop(bg * .9 + (inversed ? .07 : -.07), .07)) + ";\n\t\t}\n\n\n\t/** Select */\n\t.settings-panel-select {\n\t\tborder-radius: " + radius + "px;\n\t\tpadding-left: " + (h/4) + "em;\n\t\toutline: none;\n\t\tborder: none;\n\t\t-webkit-appearance: none;\n\t\t-moz-appearance: none;\n\t\t-o-appearance:none;\n\t\tappearance:none;\n\t\t" + (pop(bg * .9, .07)) + ";\n\t\tcolor: " + (tone(.25)) + ";\n\t}\n\t.settings-panel-select:hover,\n\t.settings-panel-select:active,\n\t.settings-panel-select:focus {\n\t\t" + (pop(bg * .9 + (inversed ? -.07 : .07), .07)) + ";\n\t}\n\t.settings-panel-select::-ms-expand {\n\t\tdisplay: none;\n\t}\n\t.settings-panel-select-triangle {\n\t\tcolor: inherit;\n\t\tdisplay: block;\n\t\ttransform: scale(.8);\n\t}\n\n\n\t/** Button */\n\t.settings-panel-button {\n\t\ttext-align: center;\n\t\tborder: none;\n\t\tborder-radius: " + radius + "px;\n\t\t" + (pop(bg * .9, .07)) + ";\n\t\tcolor: " + (tone(.25)) + ";\n\t}\n\t.settings-panel-button:focus {\n\t\toutline: none;\n\t}\n\t.settings-panel-button:hover {\n\t\t" + (pop(bg * .9 + (inversed ? -.07 : .07), .07)) + ";\n\t\tcolor: " + (tone(active)) + ";\n\t}\n\t.settings-panel-button:active {\n\t\t" + (push(active, .05)) + ";\n\t}\n\n\n\t/** Text */\n\t.settings-panel-text,\n\t.settings-panel-textarea {\n\t\t-webkit-appearance: none;\n\t\t-moz-appearance: none;\n\t\t-o-appearance:none;\n\t\tborder: none;\n\t\theight: " + h + "em;\n\t\tpadding: 0;\n\t\twidth: 100%;\n\t\tborder-radius: " + radius + "px;\n\t\tpadding-left: .4em;\n\t\t" + (push(bg*.93)) + ";\n\t\tcolor: " + (tone(.25)) + ";\n\t\ttext-shadow: none;\n\t}\n\t.settings-panel-textarea {\n\t\tpadding-top: .35em;\n\t}\n\n\t.settings-panel-text:hover,\n\t.settings-panel-textarea:hover,\n\t.settings-panel-text:focus,\n\t.settings-panel-textarea:focus {\n\t\t" + (push(bg * .93 - .04)) + ";\n\t\tcolor: " + (tone(active)) + ";\n\t\toutline: none;\n\t}\n\n\t/** Color */\n\t.settings-panel-color {\n\t\tposition: relative;\n\t\twidth: " + h + "em;\n\t\tborder-top-left-radius: 3px;\n\t\tborder-bottom-left-radius: 3px;\n\t\tdisplay: inline-block;\n\t\tvertical-align: baseline;\n\t\tbox-shadow: 0 1px " + (alpha(light, .2)) + ";\n\t}\n\t.settings-panel-color-value {\n\t\t-webkit-appearance: none;\n\t\t-moz-appearance: none;\n\t\t-o-appearance:none;\n\t\tborder: none;\n\t\tpadding-left: " + (h/4) + "em;\n\t\twidth: calc(100% - " + h + "em);\n\t\tfont-family: inherit;\n\t\tborder-top-left-radius: 0;\n\t\tborder-bottom-left-radius: 0;\n\t\tborder-top-right-radius: 3px;\n\t\tborder-bottom-right-radius: 3px;\n\t\t" + (push(bg*.93)) + ";\n\t\tcolor: " + (tone(.25)) + ";\n\t\ttext-shadow: none;\n\t}\n\t.settings-panel-color-value:hover,\n\t.settings-panel-color-value:focus {\n\t\toutline: none;\n\t\t" + (push(bg * .93 - .04)) + ";\n\t\tcolor: " + (tone(active)) + ";\n\t}\n\n\n\t/** Checkbox */\n\t.settings-panel-checkbox {\n\t\tdisplay: none;\n\t}\n\t.settings-panel-checkbox-label {\n\t\tdisplay: inline-block;\n\t\t" + (text(.25, bg)) + ";\n\t\tposition: relative;\n\t\tmargin-right: " + h + "em;\n\t}\n\t.settings-panel-checkbox-label:before {\n\t\tfont-family: \"Material Icons\";\n\t\tcontent: '';\n\t\tfont-weight: bolder;\n\t\tfont-size: " + (h*.75) + "em;\n\t\tdisplay: block;\n\t\tfloat: left;\n\t\twidth: 2em;\n\t\tmargin-right: -2em;\n\t\tmargin-top: -" + (h*.1) + "em;\n\t\topacity: 0;\n\t\tz-index: 1;\n\t\tposition: relative;\n\t\tcolor: " + (tone(1)) + ";\n\t\ttext-shadow: 0 1px 2px " + (alpha(shadow, .5)) + ";\n\t}\n\t.settings-panel-checkbox-label:after {\n\t\tcontent: '';\n\t\tdisplay: block;\n\t\tfloat: left;\n\t\tmargin-top: -" + (h*.05) + "em;\n\t\twidth: " + (h*.666) + "em;\n\t\theight: " + (h*.666) + "em;\n\t\tborder-radius: " + radius + "px;\n\t\tposition: relative;\n\t\tmargin-right: " + (h/3) + "em;\n\t\tline-height: " + (h/2) + "em;\n\t\ttext-align: center;\n\t\tz-index: 0;\n\t\t" + (push(bg * .9)) + ";\n\t}\n\t.settings-panel-checkbox-label:hover {\n\t\tcolor: " + (tone(active)) + ";\n\t}\n\t.settings-panel-checkbox-label:hover:after {\n\t\t" + (push(bg * .9 -.07, .07)) + ";\n\t}\n\t.settings-panel-checkbox:checked + .settings-panel-checkbox-label {\n\t}\n\t.settings-panel-checkbox:checked + .settings-panel-checkbox-label:before {\n\t\topacity: 1;\n\t}\n\t.settings-panel-checkbox:checked + .settings-panel-checkbox-label:after {\n\t\t" + (push(active, .1)) + ";\n\t}\n\n\n\t/** Decorations */\n\t::-webkit-input-placeholder {\n\t\tcolor: " + (alpha(tone(.25), .5)) + ";\n\t}\n\t::-moz-placeholder {\n\t\tcolor: " + (alpha(tone(.25), .5)) + ";\n\t}\n\t:-ms-input-placeholder {\n\t\tcolor: " + (alpha(tone(.25), .5)) + ";\n\t}\n\t:-moz-placeholder {\n\t\tcolor: " + (alpha(tone(.25), .5)) + ";\n\t}\n\t::-moz-selection {\n\t\tbackground: " + (tone(active)) + ";\n\t\tcolor: " + (tone(bg)) + ";\n\t}\n\t::selection {\n\t\tbackground: " + (tone(active)) + ";\n\t\tcolor: " + (tone(bg)) + ";\n\t}\n\t:host hr {\n\t\tborder: none;\n\t\theight: 3px;\n\t\tborder-radius: " + radius + "px;\n\t\tmargin: " + (h/3) + "em 0;\n\t\t" + (push(bg * .98, .05)) + ";\n\t}\n\t";
 };
 },{"./none":85,"add-px-to-style":7,"google-fonts":22,"interpolation-arrays":26,"scope-css":56,"tinycolor2":64}]},{},[80]);
